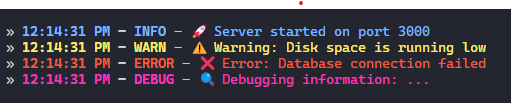
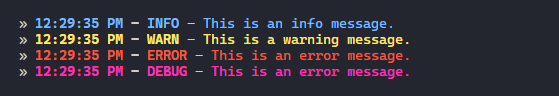
update log message

diff --git a/test.js b/test.js
@@ -1,8 +1,8 @@
 const logger = require("./index");
 
 console.log();
-logger.info("🚀 Server started on port 3000");
-logger.warn("⚠  Warning: Disk space is running low");
-logger.error("❌ Error: Database connection failed");
-logger.debug("🔍 Debugging information: ...");
+logger.info("This is an info message.");
+logger.warn("This is a warning message.");
+logger.error("This is an error message.");
+logger.debug("This is an error message.");
 console.log();
